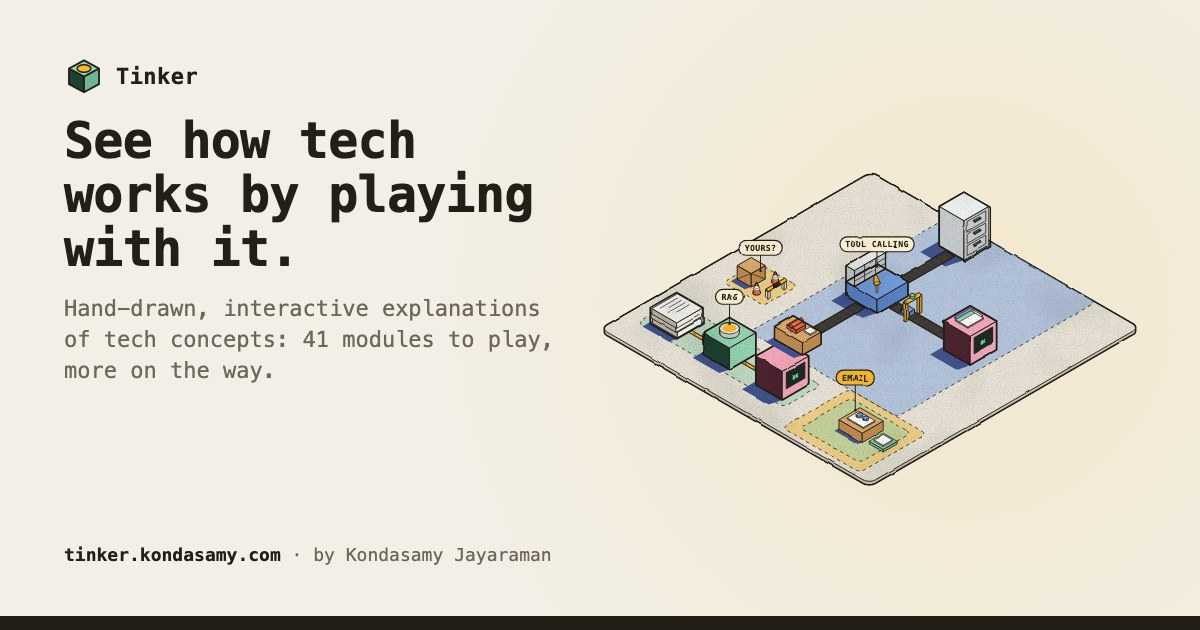
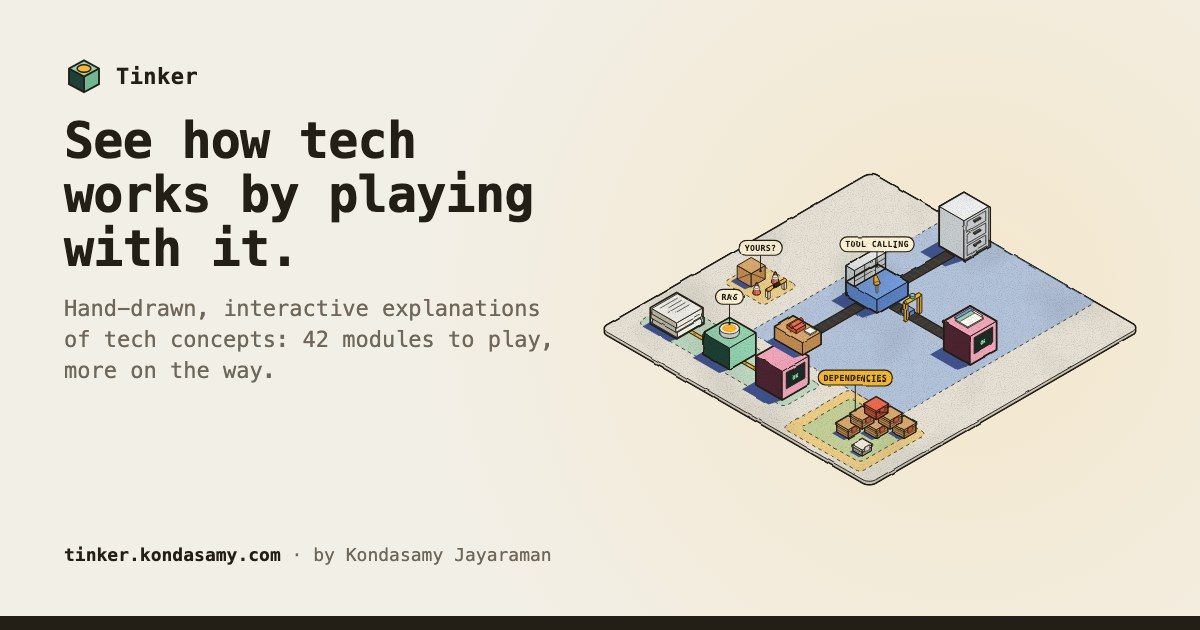
feat(dependencies): Dependencies goes live as module 42
Registry entry after How email arrives in place of the planned card, home card and hero plot (towerPlot), share-image cases and images, home.jpg, the step-id pins for its chapters, and the catalogue and module tests.

Changed region(s): [[0.6783, 0.573, 0.7708, 0.7238]]

diff --git a/src/lib/modules.ts b/src/lib/modules.ts
@@ -40,6 +40,7 @@ import { SYNTHETIC_DATA_MODULE } from '../content/synthetic-data/module';
 import { MIXTURE_OF_EXPERTS_MODULE } from '../content/mixture-of-experts/module';
 import { LOGINS_MODULE } from '../content/logins/module';
 import { EMAIL_MODULE } from '../content/email/module';
+import { DEPENDENCIES_MODULE } from '../content/dependencies/module';
 import type { RecallItem } from './recall';
 
 export type Level = 'Beginner' | 'Intermediate' | 'Advanced';
@@ -139,6 +140,7 @@ export const MODULES: Module[] = [
   MIXTURE_OF_EXPERTS_MODULE,
   LOGINS_MODULE,
   EMAIL_MODULE,
+  DEPENDENCIES_MODULE,
   planned(
     'memorisation',
     'What a model remembers',
@@ -156,13 +158,6 @@ export const MODULES: Module[] = [
     'Recommendations',
     'Intermediate',
     'Why the shop shows you this drill: what you and people like you bought, ranked, and the loop it feeds.',
-  ),
-  planned(
-    'dependencies',
-    'Dependencies',
-    'Intermediate',
-    'Code you did not write: a package manager, version ranges, the lockfile, and one package that breaks the rest.',
-    'Classic tech',
   ),
   planned(
     'releases',

diff --git a/src/components/scenes/heroScene.ts b/src/components/scenes/heroScene.ts
@@ -62,6 +62,7 @@ import { copierPlot } from './copierScene';
 import { roomsPlot } from './officeRoomsScene';
 import { cloakPlot } from './cloakScene';
 import { postPlot } from './postScene';
+import { towerPlot } from './towerScene';
 import { SEQ_MSGS } from './toolSequence';
 import { MODULES } from '../../lib/modules';
 import type { Msg } from '../../lib/iso/flat';
@@ -265,6 +266,7 @@ const DRAW: Record<string, HeroPlot['draw']> = {
   'mixture-of-experts': (x, y, { top }) => roomsPlot(x + 14, y - 4, top),
   logins: (x, y, { top }) => cloakPlot(x + 14, y - 2, top),
   email: (x, y, { top }) => postPlot(x + 12, y - 2, top),
+  dependencies: (x, y, { top }) => towerPlot(x + 8, y - 2, top),
 };
 const LIVE = MODULES.filter(m => m.status === 'live');
 /** the home page's hero and share image, from the registry: the model's call riding to the host */

diff --git a/tests/unit/modules.test.ts b/tests/unit/modules.test.ts
@@ -726,6 +726,18 @@ describe('module registry', () => {
     expect(MODULES.filter(m => m.status === 'live').findIndex(m => m.id === 'email')).toBe(40);
   });
 
+  it('has dependencies as a live Intermediate Classic tech module with no prereqs, numbered 42', () => {
+    expect(moduleOf('dependencies')).toMatchObject({
+      title: 'Dependencies',
+      level: 'Intermediate',
+      track: 'Classic tech',
+      status: 'live',
+      prereqs: [],
+    });
+    expect(moduleOf('dependencies').author).toEqual(moduleOf('rag').author);
+    expect(MODULES.filter(m => m.status === 'live').findIndex(m => m.id === 'dependencies')).toBe(41);
+  });
+
   it('keeps chapter ids unique within every module', () => {
     for (const m of MODULES) expect(new Set(m.chapters.map(c => c.id)).size, m.id).toBe(m.chapters.length);
   });

diff --git a/tests/e2e/catalogue.spec.ts b/tests/e2e/catalogue.spec.ts
@@ -48,6 +48,7 @@ const NUMBERED = [
   'mixture-of-experts',
   'logins',
   'email',
+  'dependencies',
 ];
 
 // every module sits at its level: live cards first, then the roadmap's planned cards in registry (build) order;
@@ -333,6 +334,10 @@ test('live modules keep their numbers, each linked under its level', async ({ pa
   await expect(page.locator('[data-level="Beginner"] .module[data-module="email"] h4 a')).toHaveAttribute(
     'href',
     '/email/',
+  );
+  await expect(page.locator('[data-level="Intermediate"] .module[data-module="dependencies"] h4 a')).toHaveAttribute(
+    'href',
+    '/dependencies/',
   );
 });
 
